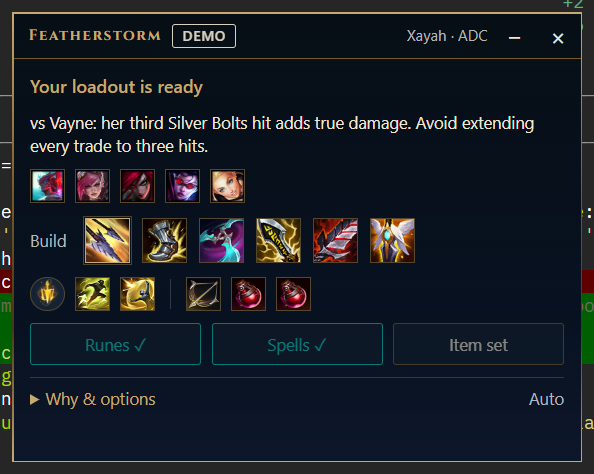
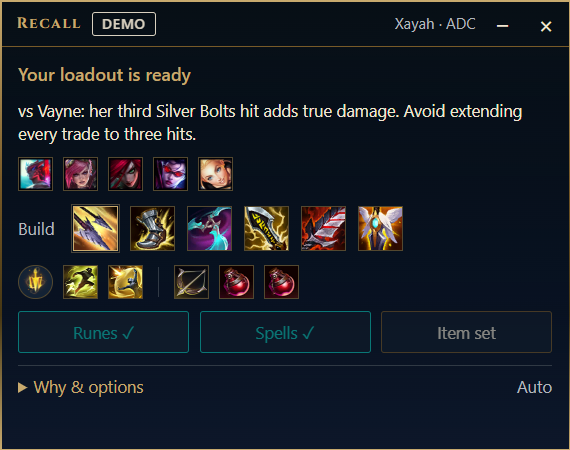
README screenshots from the renamed build; record the rebuilt recall.exe

Changed region(s): [[0.0, 0.0, 1.0, 1.0]]

diff --git a/docs/notes/m1-log.md b/docs/notes/m1-log.md
@@ -194,3 +194,11 @@ deviation is measured descriptively, not treated as evidence of better decisions
   Phase classes are now `phase-*`, the dot is gone, and the tag is an outlined uppercase label coloured by
   phase (gold in the lobby and champ select, teal in game, amber without a client). A browser test checks
   the tag's box against the header in every phase; demo and live screenshots confirmed the fix.
+
+## 2026-09-06 (renamed to Recall)
+- Everything but the WSL checkout path says Recall. `core/brand.rs` owns the account-facing name and
+  still recognises `Featherstorm ...` rune pages and item sets as ours. Verified live: the first start of
+  `recall.exe` adopted `%LOCALAPPDATA%\Featherstorm` as `Recall`, and the two prepared Swiftplay pages were
+  renamed in place (same page ids) to "Recall Xayah ADC" and "Recall Morgana Support".
+- Repo renamed to `matteso1/recall` (private). MIT license, player-facing README, macOS support is issue #1.
+- Commit history on both branches was rewritten to remove AI trailers and session links.

diff --git a/docs/notes/swiftplay.md b/docs/notes/swiftplay.md
@@ -165,6 +165,6 @@ not a slow request, and it was wrong for this product.
 A real Swiftplay assignment on this executable, the client's behaviour when a role is changed after
 preparation, the shop's rendering of the labelled blocks, and the account's penalty state. The exact
 Windows artifact is `C:\Users\nilsm\code\recall-win\overlay\target\swiftplay\release\recall.exe`
[2 lines of base64/hex data omitted]
 2026-09-06 game fixes; the first game was played on `e0019d27…`), built by
 `scripts/overlay-build.sh` and launched by `scripts/overlay-run.sh`, which now know only that path.
